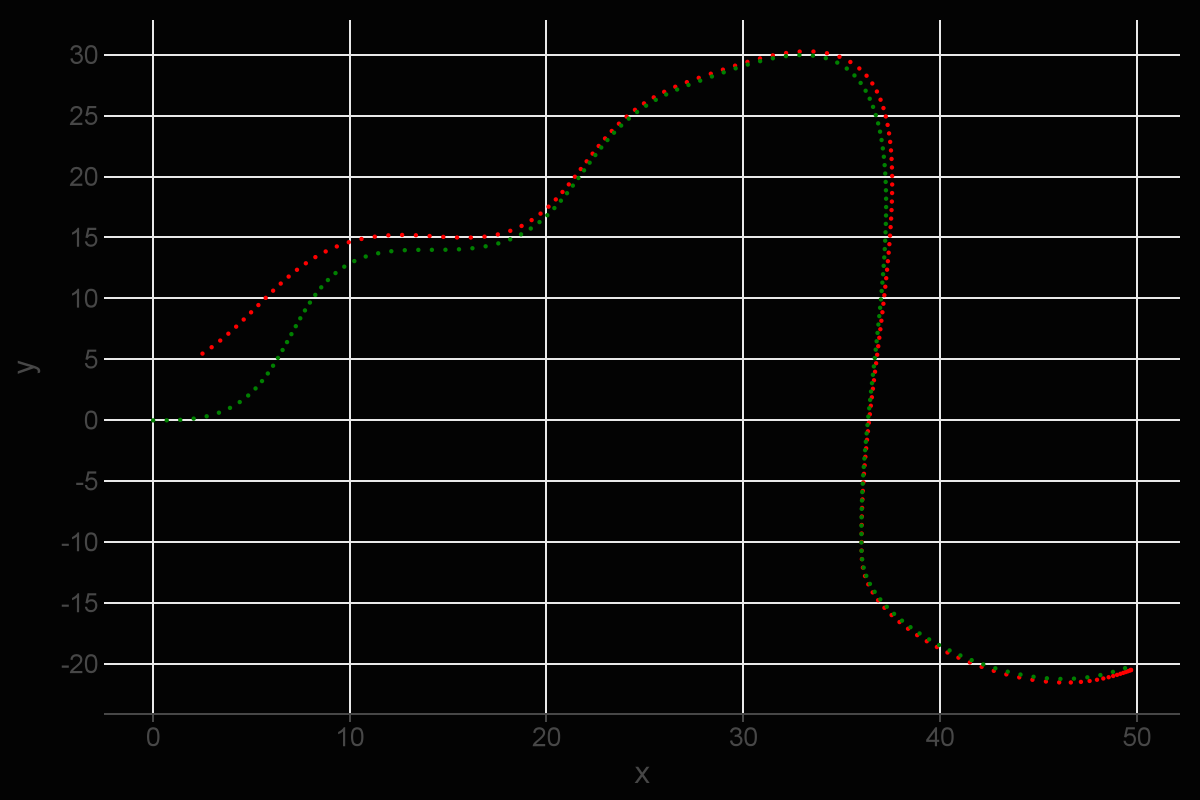
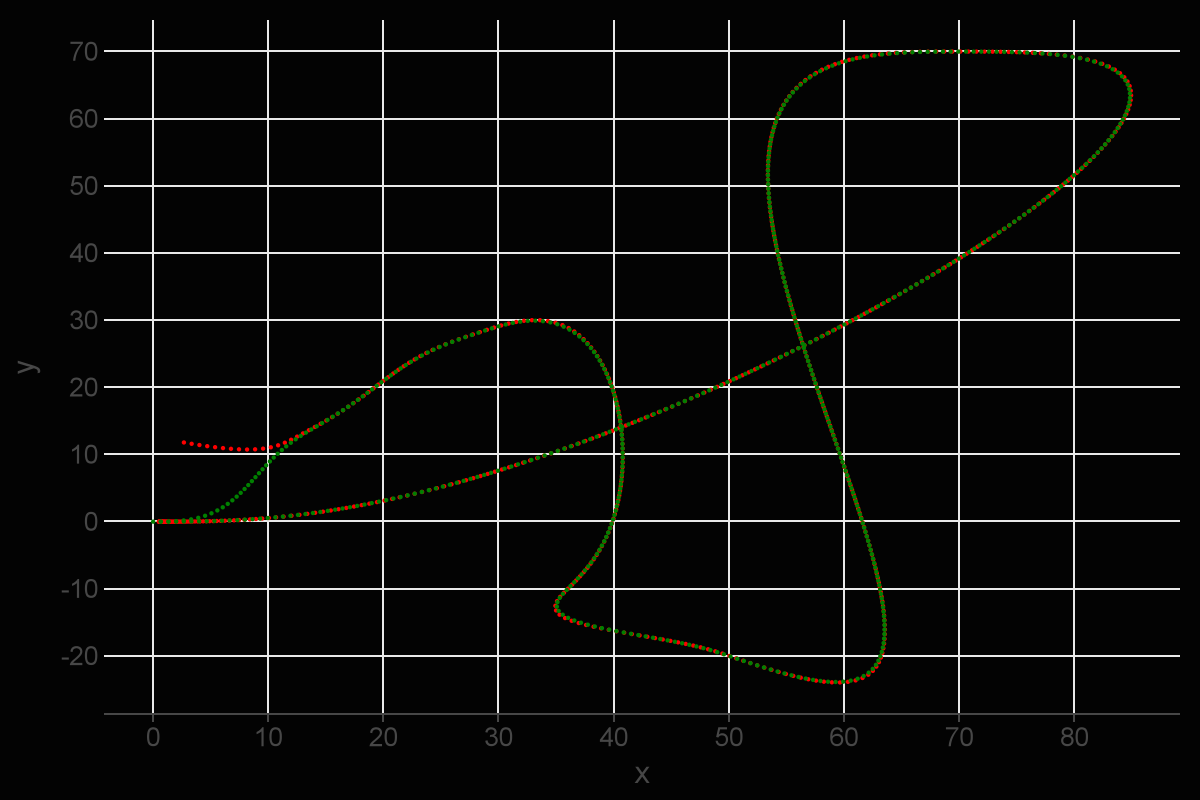
gvf fixed again

diff --git a/koawalib/src/test/java/com/asiankoala/koawalib/GVFTest.kt b/koawalib/src/test/java/com/asiankoala/koawalib/GVFTest.kt
@@ -1,37 +1,32 @@
 package com.asiankoala.koawalib
 
 import com.acmerobotics.roadrunner.geometry.Pose2d
+import com.acmerobotics.roadrunner.geometry.Vector2d
 import com.acmerobotics.roadrunner.path.PathBuilder
-import com.acmerobotics.roadrunner.util.NanoClock
 import com.asiankoala.koawalib.math.Pose
-import com.asiankoala.koawalib.math.angleWrap
-import com.asiankoala.koawalib.math.d
 import com.asiankoala.koawalib.math.radians
 import com.asiankoala.koawalib.path.gvf.GVFController
-import com.qualcomm.robotcore.util.ElapsedTime
 import jetbrains.letsPlot.*
 import jetbrains.letsPlot.export.ggsave
 import jetbrains.letsPlot.geom.geomPoint
-import jetbrains.letsPlot.geom.geomRect
+import kotlin.math.*
 
 object GVFTest {
 
     @JvmStatic
     fun main(args: Array<String>) {
-        var pose = Pose(2.0, 5.0, 90.0.radians)
-        val t = NanoClock.system()
-        val startTime = t.seconds()
+        var pose = Pose(2.0, 12.0, 90.0.radians)
         val path = PathBuilder(Pose().toPose2d(), startTangent = 0.0)
-            .splineToSplineHeading(Pose2d(14.0, 14.0, 0.0), 0.0)
-            .splineToSplineHeading(Pose2d(28.0, 28.0, 30.0.radians), 30.0.radians)
-            .splineToSplineHeading(Pose2d(36.0, -10.0, (-90.0).radians), (-90.0).radians)
-            .splineToSplineHeading(Pose2d(50.0, -20.0, 90.0.radians), 30.0.radians)
+            .splineTo(Vector2d(14.0, 14.0), 45.0.radians)
+            .splineTo(Vector2d(28.0, 28.0), 30.0.radians)
+            .splineTo(Vector2d(36.0, -10.0), (-120.0).radians)
+            .splineTo(Vector2d(50.0, -20.0), (-30.0).radians)
+            .splineTo(Vector2d(70.0, 70.0), 0.0)
+            .splineTo(Vector2d(), 180.0.radians)
             .build()
 
-        val endTime  = t.seconds()
-        println(endTime - startTime)
+        val controller = GVFController(path, 0.6, 1.0, 12.0, 0.5)
 
-        val controller = GVFController(path, 0.09, 1.0, 1/5.0, 0.5)
         val xRobot = ArrayList<Double>()
         val yRobot = ArrayList<Double>()
         val dt = 0.7
@@ -59,5 +54,19 @@ object GVFTest {
                 geomPoint(color = "dark-green", size = 1.0) { x = "xp"; y = "yp"} +
                 theme(plotBackground = elementRect(fill = "black"))
         ggsave(fig, "plot.png")
+    }
+
+    private fun dampFunc(error: Double): Double {
+        val power = 2
+        val horizontalStretch = 5
+        return abs(error / horizontalStretch).pow(power) * sign(error) /
+                    (1.0 + abs(error / horizontalStretch).pow(power))
+    }
+
+    private fun atanFunc(error: Double): Double {
+        val power = 2
+        val horizontalStretch = 5
+        return atan(abs(error / horizontalStretch).pow(power) * sign(error)) /
+                (PI / 2.0)
     }
 }

diff --git a/koawalib/src/test/java/com/asiankoala/koawalib/PPTest.kt b/koawalib/src/test/java/com/asiankoala/koawalib/PPTest.kt
@@ -1,0 +1,72 @@
+package com.asiankoala.koawalib
+
+import com.acmerobotics.roadrunner.geometry.Pose2d
+import com.acmerobotics.roadrunner.path.PathBuilder
+import com.asiankoala.koawalib.math.Pose
+import com.asiankoala.koawalib.math.Vector
+import com.asiankoala.koawalib.math.radians
+import com.asiankoala.koawalib.path.purepursuit.PurePursuitController
+import com.asiankoala.koawalib.path.purepursuit.PurePursuitPath
+import com.asiankoala.koawalib.path.purepursuit.Waypoint
+import jetbrains.letsPlot.elementRect
+import jetbrains.letsPlot.export.ggsave
+import jetbrains.letsPlot.geom.geomPoint
+import jetbrains.letsPlot.ggplot
+import jetbrains.letsPlot.theme
+
+object PPTest {
+    @JvmStatic
+    fun main(args: Array<String>) {
+        var pose = Pose()
+        val path = PurePursuitPath(
+            listOf(
+                Waypoint(0.0, 0.0, 8.0),
+                Waypoint(14.0, 14.0, 8.0),
+                Waypoint(28.0, 28.0, 8.0),
+                Waypoint(36.0, -10.0, 8.0),
+                Waypoint(50.0, -20.0, 8.0)
+            )
+        )
+
+
+
+        val xRobot = ArrayList<Double>()
+        val yRobot = ArrayList<Double>()
+        val dt = 0.7
+
+        while(!path.isFinished) {
+            val output = path.update(pose, 2.0)
+            val vec = Vector(output.first.x, output.first.y).scale(dt)
+            val add = vec.rotate(pose.heading - 90.0.radians)
+            pose = Pose(pose.vec + add, output.second)
+            xRobot.add(pose.x)
+            yRobot.add(pose.y)
+        }
+
+        val path2 = PathBuilder(Pose().toPose2d(), startTangent = 45.0.radians)
+            .splineToSplineHeading(Pose2d(14.0, 14.0, 0.0), 45.0.radians)
+            .splineToSplineHeading(Pose2d(28.0, 28.0, 30.0.radians), 45.0.radians)
+            .splineToSplineHeading(Pose2d(36.0, -10.0, (-90.0).radians), (-1.363).radians)
+            .splineToSplineHeading(Pose2d(50.0, -20.0, 90.0.radians), (-30.54).radians)
+            .build()
+
+        val resolution = xRobot.size
+        val xPath = DoubleArray(resolution)
+        val yPath = DoubleArray(resolution)
+        for(i in 0 until resolution) {
+            val s = (i / resolution.toDouble()) * path2.length()
+            val point = path2[s]
+            xPath[i] = point.x
+            yPath[i] = point.y
+        }
+
+
+        val data = mapOf<String, Any>("x" to xRobot, "y" to yRobot, "xp" to xPath, "yp" to yPath)
+        val fig = ggplot(data) +
+                geomPoint(color = "red", size = 1.0) { x = "x"; y = "y" } +
+                geomPoint(color = "dark-green", size = 1.0) { x = "xp"; y = "yp"} +
+                theme(plotBackground = elementRect(fill = "black"))
+        ggsave(fig, "plot.png")
+
+    }
+}

diff --git a/koawalib/src/main/java/com/asiankoala/koawalib/path/gvf/GVFController.kt b/koawalib/src/main/java/com/asiankoala/koawalib/path/gvf/GVFController.kt
@@ -7,6 +7,7 @@ import com.asiankoala.koawalib.math.Pose
 import com.asiankoala.koawalib.math.Vector
 import com.asiankoala.koawalib.math.angleWrap
 import kotlin.math.PI
+import kotlin.math.absoluteValue
 import kotlin.math.sign
 
 class GVFController(
@@ -44,17 +45,17 @@ class GVFController(
         val headingError = (desiredHeading - pose.heading).angleWrap
         val angularOutput = kOmega * headingError
 
-        val endDistance = path.end().toVec().dist(pose.vec)
-        val forwardOutput = kF?.times(endDistance) ?: 1.0
+        val endDisplacement = (s - path.length()).absoluteValue
+        val forwardOutput = if(kF == null) 1.0 else endDisplacement / kF
 
-        finished = finished || projectedVec.toVec().dist(path.end().toVec()) < epsilon
+        finished = finished || endDisplacement < epsilon
         val translationalPower = if(finished) {
             (projectedVec.toVec() - pose.vec)
         } else {
             vectorFieldResult
-        }.scale(forwardOutput).minNormalized()
+        }.scale(forwardOutput).clampNormalized()
 
-//        println("pose $pose, finished $finished, error $error, projected, $projectedVec, displacement $displacementVec, translationalPower $translationalPower, endDistance $endDistance")
+        println("pose $pose, finished $finished, error $error, projected, $projectedVec, displacement $displacementVec, translationalPower $translationalPower, endDistance $endDisplacement")
 
         return Pose(translationalPower, angularOutput)
     }

diff --git a/koawalib/src/main/java/com/asiankoala/koawalib/path/purepursuit/PurePursuitController.kt b/koawalib/src/main/java/com/asiankoala/koawalib/path/purepursuit/PurePursuitController.kt
@@ -39,7 +39,7 @@ object PurePursuitController {
             xPower *= relativeXToPosition.absoluteValue / 12.0
             yPower *= relativeYToPosition.absoluteValue / 12.0
         } else {
-            Logger.addTelemetryLine("FULL SPEED")
+//            Logger.addTelemetryLine("FULL SPEED")
         }
 
         xPower = clamp(xPower, -maxMoveSpeed, maxMoveSpeed)

diff --git a/koawalib/src/main/java/com/asiankoala/koawalib/math/Vector.kt b/koawalib/src/main/java/com/asiankoala/koawalib/math/Vector.kt
@@ -53,7 +53,7 @@ data class Vector(
         return Vector2d(x, y)
     }
 
-    fun minNormalized(): Vector {
+    fun clampNormalized(): Vector {
         return if(norm() > 1.0) {
             normalized()
         } else {
